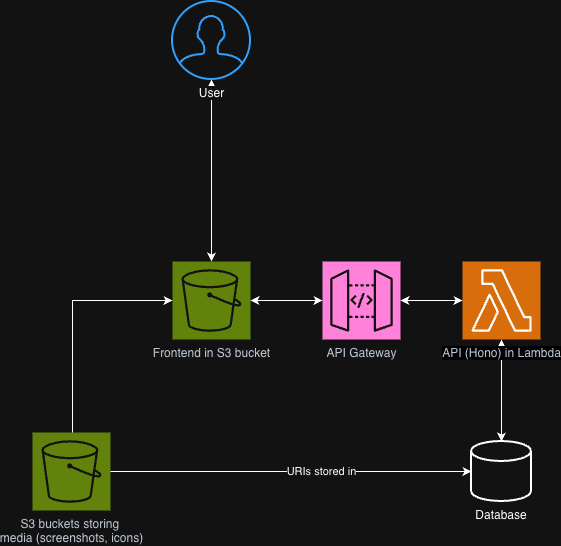
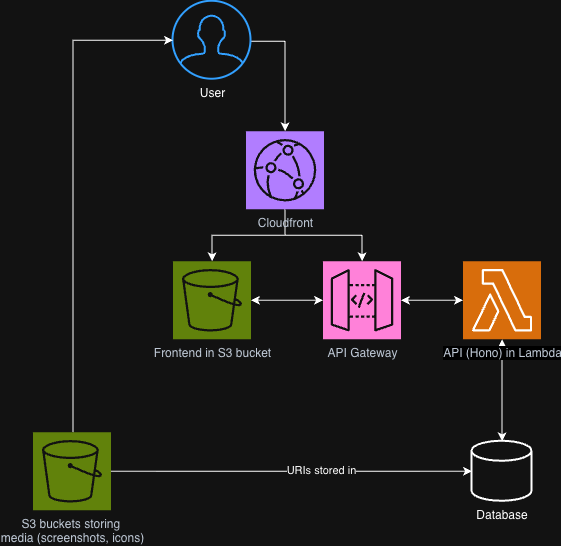
feat: put frontend and API behind CloudFront

diff --git a/infra/functions/spa-fallback.js b/infra/functions/spa-fallback.js
@@ -1,0 +1,8 @@
+function handler(event) {
+    var uri = event.request.uri;
+    // No file extension in the last segment means it's an SPA route, not an asset.
+    if (!/\.[^\/]+$/.test(uri)) {
+        event.request.uri = '/index.html';
+    }
+    return event.request;
+}

diff --git a/infra/functions/strip-api-prefix.js b/infra/functions/strip-api-prefix.js
@@ -1,0 +1,4 @@
+function handler(event) {
+    event.request.uri = event.request.uri.replace(/^\/api/, '') || '/';
+    return event.request;
+}

diff --git a/docs/infrastructure/infrastructure-design.md b/docs/infrastructure/infrastructure-design.md
@@ -17,7 +17,7 @@ The site is built by GitHub actions as part of our [CI/CD process](../processes/
 It is also a cheap solution, at well under $1USD per month.
 
 The bucket is physically located in Melbourne, as presumably that will be where the majority of our visitors are located.
-We may later explore placing the frontend behind [Amazon CloudFront](https://docs.aws.amazon.com/AmazonCloudFront/latest/DeveloperGuide/Introduction.html), which will reduce latency to visitors around the world, but this will increase cost and may not be worthwhile.
+The bucket is behind an [Amazon CloudFront](https://docs.aws.amazon.com/AmazonCloudFront/latest/DeveloperGuide/Introduction.html) distribution, which will reduce latency to visitors around the world, and provide additional features.
 
 ## Serving the API
 
@@ -34,6 +34,7 @@ Due to the relatively low anticipated access patterns, I also estimate backend c
 To run a self-managed server on [AWS EC2](https://aws.amazon.com/ec2/), we would likely be looking at a minimum of several USD for one server, plus upwards of $15USD for an [application load balancer](https://docs.aws.amazon.com/elasticloadbalancing/latest/application/introduction.html) to facilitate spinning up additional servers in periods of higher demand (plus the cost of those additional servers).
 
 The backend is behind an [API Gateway](https://docs.aws.amazon.com/apigateway/latest/developerguide/welcome.html), simplifying some operations and providing a level of defence against malicious actions like DDoS attacks.
+The API gateway is also behinf the previously mentioned CloudFront distribution.
 
 ## Database
 

diff --git a/docs/infrastructure/environments.md b/docs/infrastructure/environments.md
@@ -9,12 +9,8 @@ This environment contains the absolute latest code on the `main` branch, [deploy
 This allows us to always have a live version of the codebase with the latest changes, and lets us manually test the project in a real environment. 
 The database is separate from the production environment, so we can modify data without affecting production.
 
-[Click here to go to the staging environment](http://frontend-staging-676787762676-ap-southeast-4-an.s3-website.ap-southeast-4.amazonaws.com/).
-
 ## Production
 
 This environment is only deployed manually, once we are satisfied that the staging environment is working properly.
 If this were a live project, this would be the site that the public sees.
-
-[Click here to go to the production environment](http://frontend-production-676787762676-ap-southeast-4-an.s3-website.ap-southeast-4.amazonaws.com/).
 
